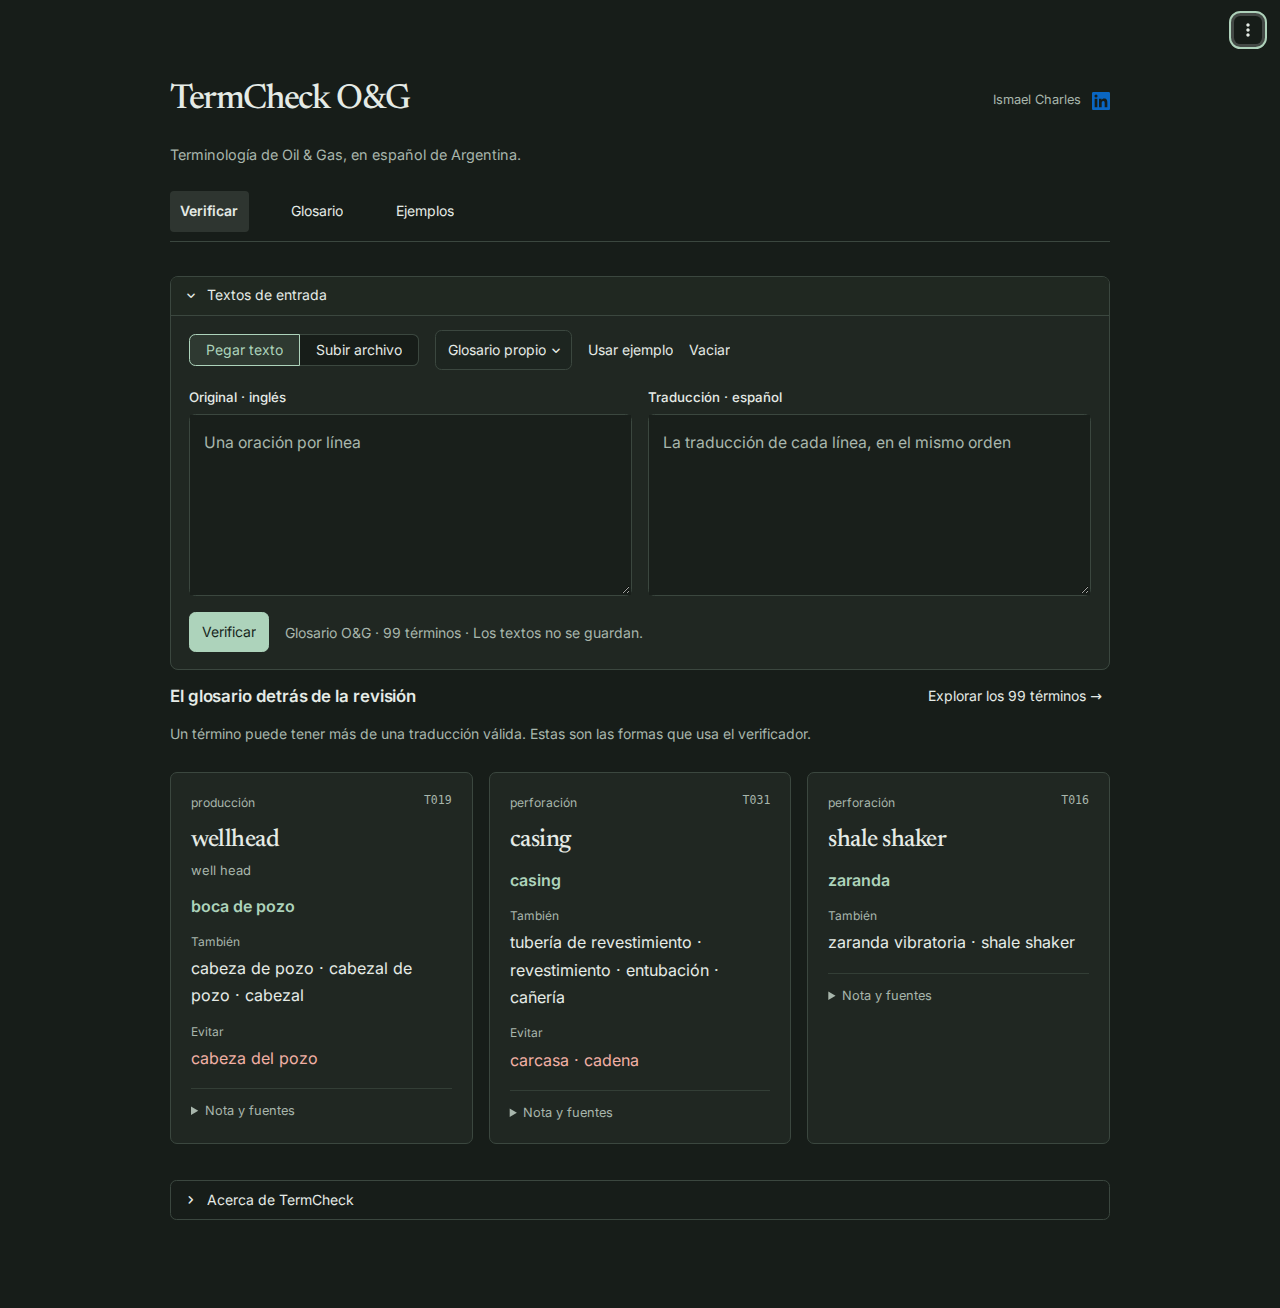
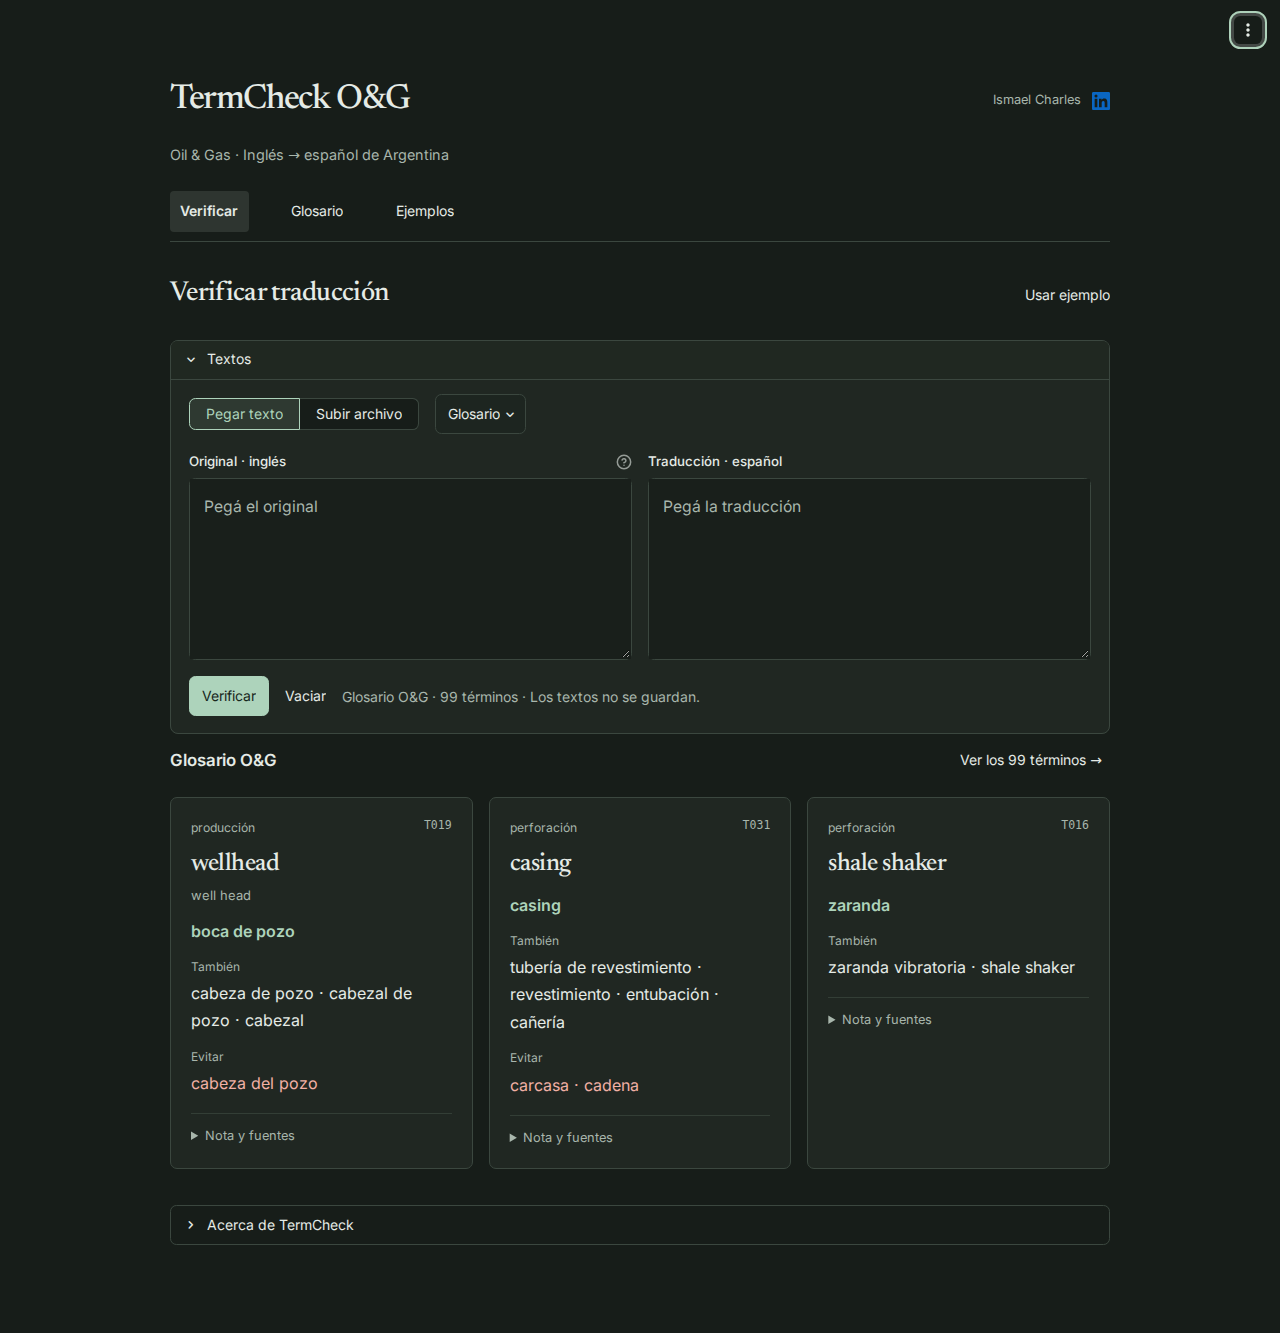
Ordenar la entrada y simplificar la revisión de traducciones

diff --git a/app/static/termcheck.css b/app/static/termcheck.css
@@ -64,8 +64,12 @@ a:focus-visible, summary:focus-visible, button:focus-visible {
 .tc-result-summary strong {color: var(--tc-text); font-weight: 600}
 .tc-empty {padding: 1.75rem 0; text-align: center; color: var(--tc-muted); font-size: .9rem}
 .tc-page-intro {margin: .25rem 0 1.25rem}
-.tc-page-intro h2 {font: 500 1.85rem/1.25 Newsreader, Georgia, serif !important; letter-spacing: -.025em}
+.tc-page-intro h2 {font: 500 1.85rem/1.25 Newsreader, Georgia, serif !important; letter-spacing: -.025em; margin: 0}
 .tc-page-intro p {color: var(--tc-muted); margin: .5rem 0 0; line-height: 1.65}
+.tc-workspace-title {margin: 0 0 .25rem}
+.tc-workspace-title h2 {font-size: 1.7rem !important}
+.st-key-vf_intro {margin-bottom: .5rem}
+.st-key-vf_result_header h3 {font: 500 1.7rem/1.25 Newsreader, Georgia, serif !important; letter-spacing: -.025em}
 .tc-dict-grid {display: grid; grid-template-columns: repeat(2, minmax(0, 1fr)); gap: 1rem; margin: .7rem 0 1.25rem}
 .tc-dict-preview {grid-template-columns: repeat(3, minmax(0, 1fr))}
 .tc-dict-card {

diff --git a/app/paginas/verificar.py b/app/paginas/verificar.py
@@ -33,9 +33,6 @@ DEMO = os.environ.get("TERMCHECK_DEMO") == "1"
 
 vista.estilos()
 st.html("<style>" + report.CSS + "</style>")
-if not DEMO:
-    st.title("Verificar")
-    st.html('<p class="tc-descripcion">Revisión terminológica de Oil &amp; Gas · Inglés → español de Argentina</p>')
 
 
 @st.cache_data(show_spinner=False)
@@ -79,14 +76,16 @@ if DEMO:
 st.session_state.setdefault("vf_editor_abierto", True)
 if st.session_state.pop("vf_cerrar_editor", False):
     st.session_state.vf_editor_abierto = False
+# Se completa al final, cuando sabemos si hay un resultado vigente.
+titulo_entrada = st.container(key="vf_intro")
 with st.container(key="vf_editor"):
-    with st.expander("Textos de entrada", expanded=True, key="vf_editor_abierto", on_change="rerun"):
+    with st.expander("Textos", expanded=True, key="vf_editor_abierto", on_change="rerun"):
         with st.container(horizontal=True, vertical_alignment="center", gap="small"):
             modo = st.segmented_control("Entrada", list(MODOS), format_func=MODOS.get,
                                         default="pegar", required=True, key="vf_modo",
                                         label_visibility="collapsed")
-            with st.popover("Glosario propio"):
-                st.caption("Se usa el glosario O&G del proyecto. Podés reemplazarlo por uno propio.")
+            with st.popover("Glosario"):
+                st.caption("Incluido: glosario O&G. Podés cargar otro en CSV.")
                 nuevo_glosario = st.file_uploader("Glosario propio (CSV)", type=["csv"], key="vf_glosario",
                                           max_upload_size=1 if DEMO else None,
                                           on_change=recordar_archivo, args=("vf_glosario", "vf_glosario_memoria"),
@@ -98,9 +97,6 @@ with st.container(key="vf_editor"):
                     if st.button("Volver al glosario del proyecto"):
                         st.session_state.pop("vf_glosario_memoria", None)
                         st.rerun()
-            if modo == "pegar":
-                st.button("Usar ejemplo", on_click=cargar_ejemplo, type="tertiary")
-                st.button("Vaciar", on_click=vaciar, type="tertiary")
         if propio:
             try:
                 bytes_glosario = propio.getvalue()
@@ -134,11 +130,13 @@ with st.container(key="vf_editor"):
             with st.form("vf_textos", border=False):
                 c1, c2 = st.columns(2)
                 tope = MAX_LETRAS if DEMO else None
-                en = c1.text_area("Original · inglés", key="vf_en", height=210, placeholder="Una oración por línea", max_chars=tope)
+                en = c1.text_area("Original · inglés", key="vf_en", height=210, placeholder="Pegá el original",
+                                  max_chars=tope, help="Si hay varios segmentos, poné uno por línea en ambos textos.")
                 es = c2.text_area("Traducción · español", key="vf_es", height=210, max_chars=tope,
-                                  placeholder="La traducción de cada línea, en el mismo orden")
+                                  placeholder="Pegá la traducción")
                 with st.container(horizontal=True, vertical_alignment="center"):
                     pedir = st.form_submit_button("Verificar", type="primary") or pedir
+                    st.form_submit_button("Vaciar", on_click=vaciar, type="tertiary")
                     st.caption(f"{nombre_glosario} · {len(terminos)} términos" + (" · Los textos no se guardan." if DEMO else ""))
             l_en = en.splitlines()
             l_es = es.splitlines()
@@ -239,6 +237,12 @@ if pedir:
 if st.session_state.get("vf_aviso"):
     st.warning(st.session_state.vf_aviso)
 previo = st.session_state.get("vf_resultado")
+if not previo or previo[0] != firma:
+    with titulo_entrada:
+        with st.container(horizontal=True, vertical_alignment="center"):
+            st.html('<div class="tc-page-intro tc-workspace-title"><h2>Verificar traducción</h2></div>')
+            if modo == "pegar":
+                st.button("Usar ejemplo", on_click=cargar_ejemplo, type="tertiary")
 if previo and previo[0] == firma:
     from revision import mostrar
     _, resultado, todas, advertencias = previo
@@ -248,9 +252,8 @@ elif not pares:
         import catalogo
         proyecto = catalogo.leer()
         with st.container(horizontal=True, vertical_alignment="center"):
-            st.subheader("El glosario detrás de la revisión")
-            st.page_link("paginas/glosario_publico.py", label=f"Explorar los {len(proyecto)} términos →")
-        st.caption("Un término puede tener más de una traducción válida. Estas son las formas que usa el verificador.")
+            st.subheader("Glosario O&G")
+            st.page_link("paginas/glosario_publico.py", label=f"Ver los {len(proyecto)} términos →")
         st.html(catalogo.fichas(catalogo.destacados(proyecto), compactas=True))
     else:
         st.html('<p class="tc-empty">Pegá los dos textos o usá el ejemplo para empezar.</p>')

diff --git a/app/revision.py b/app/revision.py
@@ -6,7 +6,7 @@ from termcheck import report
 
 def mostrar(resultado, todas, advertencias, glosario=""):
     marcadas = sum(o.marcada for o in todas)
-    with st.container(horizontal=True, vertical_alignment="center"):
+    with st.container(horizontal=True, vertical_alignment="center", key="vf_result_header"):
         st.subheader("Revisión")
         with st.popover("Descargar"):
             segmentos = {p[0]: p[2] for p, _ in resultado}
@@ -17,21 +17,23 @@ def mostrar(resultado, todas, advertencias, glosario=""):
             st.download_button("Tabla CSV", report.a_csv_texto(todas), "termcheck.csv", "text/csv",
                                on_click="ignore", width="stretch")
     # Cuenta apariciones, como el CSV, aunque los detalles iguales se agrupen en la pantalla.
-    st.html('<p class="tc-result-summary">'
-            f'<strong>{marcadas} para revisar</strong> · {len(todas)} '
-            f'{"término encontrado" if len(todas) == 1 else "términos encontrados"} en '
-            f'{len(resultado)} {"segmento" if len(resultado) == 1 else "segmentos"}</p>')
     con_terminos = sum(bool(oc) for _, oc in resultado)
-    st.caption(f"{con_terminos} de {len(resultado)} segmentos con términos del glosario. "
-               "La revisión solo cubre esos términos; una coincidencia no valida la traducción completa.")
-    if not todas:
-        st.info("No se encontraron términos del glosario en el original. "
-                "Podés consultar el glosario o cargar uno propio para este texto.")
-    solo = st.checkbox("Solo lo que hay que revisar", value=True, key="vf_solo", disabled=not todas)
+    if todas:
+        st.html('<p class="tc-result-summary">'
+                f'<strong>{marcadas} para revisar</strong> · {len(todas)} '
+                f'{"término" if len(todas) == 1 else "términos"} · '
+                f'{len(resultado)} {"segmento" if len(resultado) == 1 else "segmentos"}</p>')
+        if con_terminos < len(resultado):
+            st.caption(f"Con términos del glosario: {con_terminos} de {len(resultado)} segmentos.")
+        if not marcadas:
+            st.success("Sin observaciones en los términos reconocidos.")
+    else:
+        st.info("No se encontraron términos del glosario en el original.")
+    # Sin avisos se muestra directamente el texto: no hay que desactivar un filtro vacío.
+    solo = st.checkbox("Solo observaciones", value=True, key="vf_solo") if marcadas else False
     indices = [i for i, (_, oc) in enumerate(resultado) if not todas or not solo or any(o.marcada for o in oc)]
     if not indices:
-        st.success("No hay términos para revisar." if not marcadas else "No hay segmentos en esta vista.")
-        st.caption("Desmarcá el filtro para ver también las formas aceptadas y los segmentos sin términos.")
+        st.info("No hay segmentos en esta vista.")
     else:
         def etiqueta(i):
             (seg_id, sistema, _, _), oc = resultado[i]
@@ -50,5 +52,5 @@ def mostrar(resultado, todas, advertencias, glosario=""):
             st.html(report.avisos_html(advertencias))
     with st.expander("Cómo leer las marcas"):
         st.html(report.leyenda())
-        st.caption("Una forma no encontrada puede ser una omisión o una variante que falta en el glosario. "
-                   "Las sugerencias por parecido de letras no cambian la etiqueta.")
+        st.caption("Solo se revisan términos del glosario, no la traducción completa. Una forma no encontrada "
+                   "puede ser válida. Las sugerencias por parecido no cambian la etiqueta.")

diff --git a/tests/test_demo.py b/tests/test_demo.py
@@ -36,7 +36,7 @@ def test_el_ejemplo_muestra_un_reporte(demo):
     assert not demo.exception, demo.exception
     assert any("Revisión" in s.value for s in demo.subheader)
     assert demo.session_state.vf_editor_abierto is False
-    assert any("términos encontrados en 3 segmentos" in m.proto.body for m in demo.get("html"))
+    assert any("términos · 3 segmentos" in m.proto.body for m in demo.get("html"))
     assert len([m for m in demo.get("html") if 'class="tc-seg"' in m.proto.body]) == 1
 
 
@@ -46,7 +46,7 @@ def test_corta_en_el_maximo_de_segmentos(demo):
     [b for b in demo.button if b.label == "Verificar"][0].click().run()
     assert not demo.exception, demo.exception
     assert any("verifica los primeros 200" in w.value for w in demo.warning)
-    assert any("en 200 segmentos" in m.proto.body for m in demo.get("html"))
+    assert any("· 200 segmentos" in m.proto.body for m in demo.get("html"))
 
 
 def test_el_cuadro_de_texto_corta_en_el_maximo_de_letras(demo):
@@ -81,12 +81,16 @@ def test_vaciar_y_verificar_solo_al_pedirlo(demo, monkeypatch):
     [b for b in demo.button if b.label == "Vaciar"][0].click().run()
     assert not any("Revisión" in s.value for s in demo.subheader)
     demo.text_area[0].set_value("Check the wellhead.")
-    demo.text_area[1].set_value("Revise la boca de pozo.")
+    demo.text_area[1].set_value("Revise el equipo.")
     assert not llamadas
     [b for b in demo.button if b.label == "Verificar"][0].click().run()
     assert len(llamadas) == 1 and not demo.exception
     demo.checkbox[0].uncheck().run()
     assert len(llamadas) == 1 and not demo.exception
+    [b for b in demo.button if b.label == "Vaciar"][0].click().run()
+    assert len(llamadas) == 1 and not demo.exception
+    assert [t.value for t in demo.text_area] == ["", ""]
+    assert "vf_resultado" not in demo.session_state
 
 
 def test_cambiar_segmento_y_filtro_no_repite_el_analisis(demo, monkeypatch):
@@ -111,11 +115,25 @@ def test_texto_correcto_se_puede_consultar_sin_falsos_avisos(demo):
     demo.text_area[1].set_value("Inspeccione la boca de pozo.")
     [b for b in demo.button if b.label == "Verificar"][0].click().run()
     assert not demo.exception
-    assert any("No hay términos para revisar" in s.value for s in demo.success)
-    demo.checkbox[0].uncheck().run()
+    assert any("Sin observaciones en los términos reconocidos" in s.value for s in demo.success)
+    assert not demo.checkbox
     bloques = [m.proto.body for m in demo.get("html") if 'class="tc-seg"' in m.proto.body]
     assert len(bloques) == 1 and "boca de pozo" in bloques[0]
     [b for b in demo.button if b.label == "Vaciar"][0].click().run()
     assert "vf_resultado" not in demo.session_state
     assert not any(s.value == "Revisión" for s in demo.subheader)
     assert demo.session_state.vf_editor_abierto is True
+
+
+def test_el_filtro_se_conserva_al_pasar_por_un_resultado_sin_avisos(demo):
+    demo.text_area[0].set_value("Inspect the wellhead.")
+    demo.text_area[1].set_value("Revise el equipo.")
+    [b for b in demo.button if b.label == "Verificar"][0].click().run()
+    demo.checkbox[0].uncheck().run()
+    demo.text_area[1].set_value("Revise la boca de pozo.")
+    [b for b in demo.button if b.label == "Verificar"][0].click().run()
+    assert not demo.checkbox and not demo.exception
+    demo.text_area[1].set_value("Revise el equipo.")
+    [b for b in demo.button if b.label == "Verificar"][0].click().run()
+    assert not demo.exception
+    assert demo.checkbox[0].value is False

diff --git a/app/paginas/glosario_publico.py b/app/paginas/glosario_publico.py
@@ -7,10 +7,9 @@ import catalogo
 
 
 terminos = catalogo.leer()
-st.html('<div class="tc-page-intro"><h2>El glosario</h2>'
-        '<p>Las palabras del campo, con sus formas preferidas, variantes y fuentes.</p></div>')
+st.html('<div class="tc-page-intro"><h2>Glosario</h2></div>')
 with st.container(horizontal=True, vertical_alignment="center"):
-    st.caption(f"{len(terminos)} términos · Inglés → español técnico de Argentina")
+    st.caption("Inglés → español técnico de Argentina")
     st.download_button("Descargar glosario CSV", catalogo.archivo().read_bytes(), "glosario-termcheck.csv",
                        "text/csv", on_click="ignore")
 
@@ -25,7 +24,8 @@ consulta = buscar.text_input("Buscar un término", placeholder="En inglés o en 
 area = filtrar.selectbox("Área", ["Todas las áreas", *sorted({t.subdomain for t in terminos if t.subdomain})],
                         key="gp_area", on_change=primera_pagina)
 filtrados = catalogo.buscar(terminos, consulta, area)
-st.caption(f"{len(filtrados)} de {len(terminos)} términos")
+st.caption(f"{len(filtrados)} términos" if len(filtrados) == len(terminos) else
+           f"{len(filtrados)} de {len(terminos)} términos")
 if not filtrados:
     st.info("No hay términos que coincidan. Probá otra palabra o elegí otra área.")
 else:
@@ -33,5 +33,6 @@ else:
     indice = st.selectbox("Página", range(paginas), format_func=lambda i: f"{i + 1} de {paginas}",
                           key="gp_pagina", width=150) if paginas > 1 else 0
     st.html(catalogo.fichas(filtrados[indice * 6:(indice + 1) * 6]))
-st.caption("La demo y esta consulta usan la misma edición del glosario. Las equivalencias son decisiones "
-           "documentadas para este proyecto; las preferencias pueden cambiar según el contexto o el cliente.")
+with st.expander("Sobre el glosario"):
+    st.caption("La consulta y el verificador usan la misma edición. Las equivalencias son decisiones "
+               "documentadas del proyecto; las preferencias pueden cambiar según el contexto o el cliente.")

diff --git a/app/paginas/inicio.py b/app/paginas/inicio.py
@@ -59,9 +59,9 @@ if not DEMO:
                 "2. Usá el glosario del proyecto o cargá el tuyo.\n"
                 "3. Verificá y revisá los términos señalados. Podés descargar el reporte en HTML o CSV.")
 else:
-    st.html('<div class="tc-page-intro"><h2>Qué revisa TermCheck</h2>'
-            '<p>Ejemplos para entender qué acepta el glosario y qué conviene revisar.</p></div>')
-st.page_link("paginas/verificar.py", label="Probar con una traducción →")
+    st.html('<div class="tc-page-intro"><h2>Ejemplos</h2></div>')
+if not DEMO:
+    st.page_link("paginas/verificar.py", label="Probar con una traducción →")
 if not DEMO:
     st.subheader("Cómo marca cada caso")
 titulos = [x["titulo"] for x in EJEMPLOS]
@@ -80,14 +80,12 @@ o = Ocurrencia("Ejemplo", "", "Ejemplo", term, ej["etiqueta"], encontrada,
                ini_es, ini_es + len(encontrada), ini_en, ini_en + len(term), "")
 st.html(report.bloque_segmento(quitar_marcas(ej["en"]), quitar_marcas(ej["es"]), [o], cabecera="Ejemplo ilustrativo"))
 st.markdown(ej["porque"])
-st.caption("Ejemplos ilustrativos. En tus textos, las formas preferidas y válidas las decide el glosario.")
 with st.expander("Las seis etiquetas"):
     st.html(report.leyenda())
+    st.caption("Ejemplos ilustrativos. En tus textos, las formas preferidas y válidas las decide el glosario.")
 if not DEMO:
     st.subheader("Estado del proyecto")
     st.write(f"Versión {VERSION}. El glosario de trabajo tiene {len(datos.leer())} términos. "
              "La evaluación publicada corresponde a la versión 0.1; los resultados de 0.2 se informan aparte en el README. "
              "Falta probar la herramienta con traductores y ampliar la anotación.")
     st.page_link("paginas/glosario.py", label="Ir al glosario")
-else:
-    st.page_link("paginas/glosario_publico.py", label="Consultar el glosario completo →")

diff --git a/src/termcheck/report.py b/src/termcheck/report.py
@@ -94,15 +94,15 @@ def detalle(o):
     if o.label == "OK":
         return "Preferida."
     if o.label == "VARIANTE":
-        return f"Variante aceptada. La preferida es {preferida}."
+        return f"Variante aceptada. Preferida: {preferida}."
     if o.label == "PROHIBIDO":
-        return f"Prohibida. La preferida es {preferida}."
+        return f"Prohibida. Preferida: {preferida}."
     if o.label == "SIN_TRADUCIR":
-        return f"Sin traducir. La preferida es {preferida}."
+        return f"Sin traducir. Preferida: {preferida}."
     conocidas = ", ".join(f"«{x}»" for x in dict.fromkeys((o.es_expected, *o.es_allowed)) if x)
-    texto = f"No encontrada. El glosario tiene {conocidas}."
+    texto = f"No encontrada. Formas: {conocidas}."
     if o.suggestion:
-        texto += f" Lo más parecido en la traducción: «{o.suggestion}»."
+        texto += f" Por parecido: «{o.suggestion}»."
     return texto
 
 

diff --git a/tests/test_lanzamiento.py b/tests/test_lanzamiento.py
@@ -23,9 +23,11 @@ def test_sin_terminos_no_se_presenta_como_revision_correcta(proyecto):
     [b for b in at.button if b.label == "Verificar"][0].click().run()
     assert not at.exception
     assert not at.success
+    assert not at.checkbox
     assert any("No se encontraron términos del glosario" in i.value for i in at.info)
     html = "".join(m.proto.body for m in at.get("html"))
     assert "documento está listo" in html
+    assert 'class="tc-result-summary"' not in html
 
 
 def test_glosario_invalido_impide_verificar(proyecto):

diff --git a/app/demo.py b/app/demo.py
@@ -33,7 +33,7 @@ for clave in ("vf_en", "vf_es", "vf_modo", "vf_editor_abierto", "vf_solo", "vf_s
         st.session_state[clave] = st.session_state[clave]
 vista.estilos()
 vista.cabecera(NOMBRE)
-st.html('<p class="tc-brand-description">Terminología de Oil &amp; Gas, en español de Argentina.</p>')
+st.html('<p class="tc-brand-description">Oil &amp; Gas · Inglés → español de Argentina</p>')
 with st.container(horizontal=True, gap="medium", key="public_nav"):
     for p in paginas:
         st.page_link(p)

diff --git a/tests/test_formatos.py b/tests/test_formatos.py
@@ -174,5 +174,5 @@ def test_la_pagina_verificar_procesa_un_xliff(monkeypatch):
     [b for b in at.button if b.label == "Verificar"][0].click().run()
     assert not at.exception, at.exception
     assert any("Revisión" in s.value for s in at.subheader)
-    assert any("en 5 segmentos" in m.proto.body for m in at.get("html"))
+    assert any("· 5 segmentos" in m.proto.body for m in at.get("html"))
     assert any("Se salteó 1 segmento sin traducción" in c.value for c in at.caption)

diff --git a/tests/test_report.py b/tests/test_report.py
@@ -124,5 +124,5 @@ def test_filtro_muestra_solo_los_detalles_para_revisar():
     en, es = "Move the rig to the wellhead.", "Mueva la plataforma de perforación a la boca de pozo."
     oc = verificar(en, es, GLOSARIO)
     pieza = bloque_segmento(en, es, oc, solo=True)
-    assert "Prohibida. La preferida" in pieza
+    assert "Prohibida. Preferida:" in pieza
     assert "Preferida.</td>" not in pieza

diff --git a/src/termcheck/__init__.py b/src/termcheck/__init__.py
@@ -2,4 +2,4 @@
 
 # El nombre del proyecto vive solo acá: para cambiarlo, se cambia esta línea.
 NOMBRE = "TermCheck O&G"
-VERSION = "0.2.2"
+VERSION = "0.2.3"
